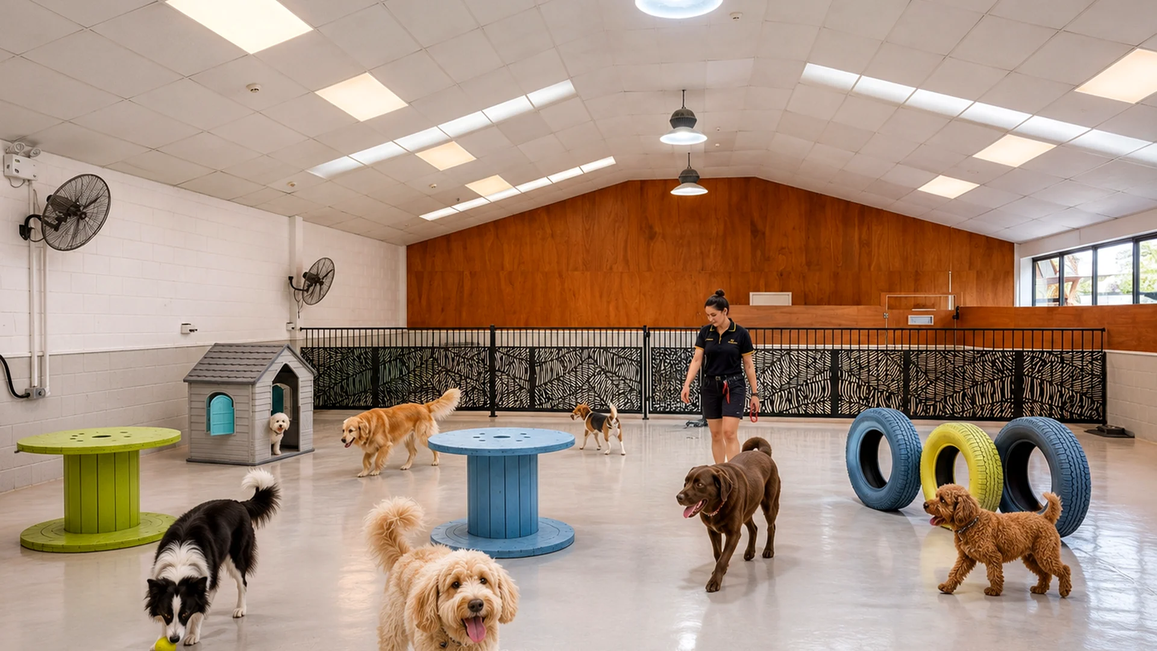
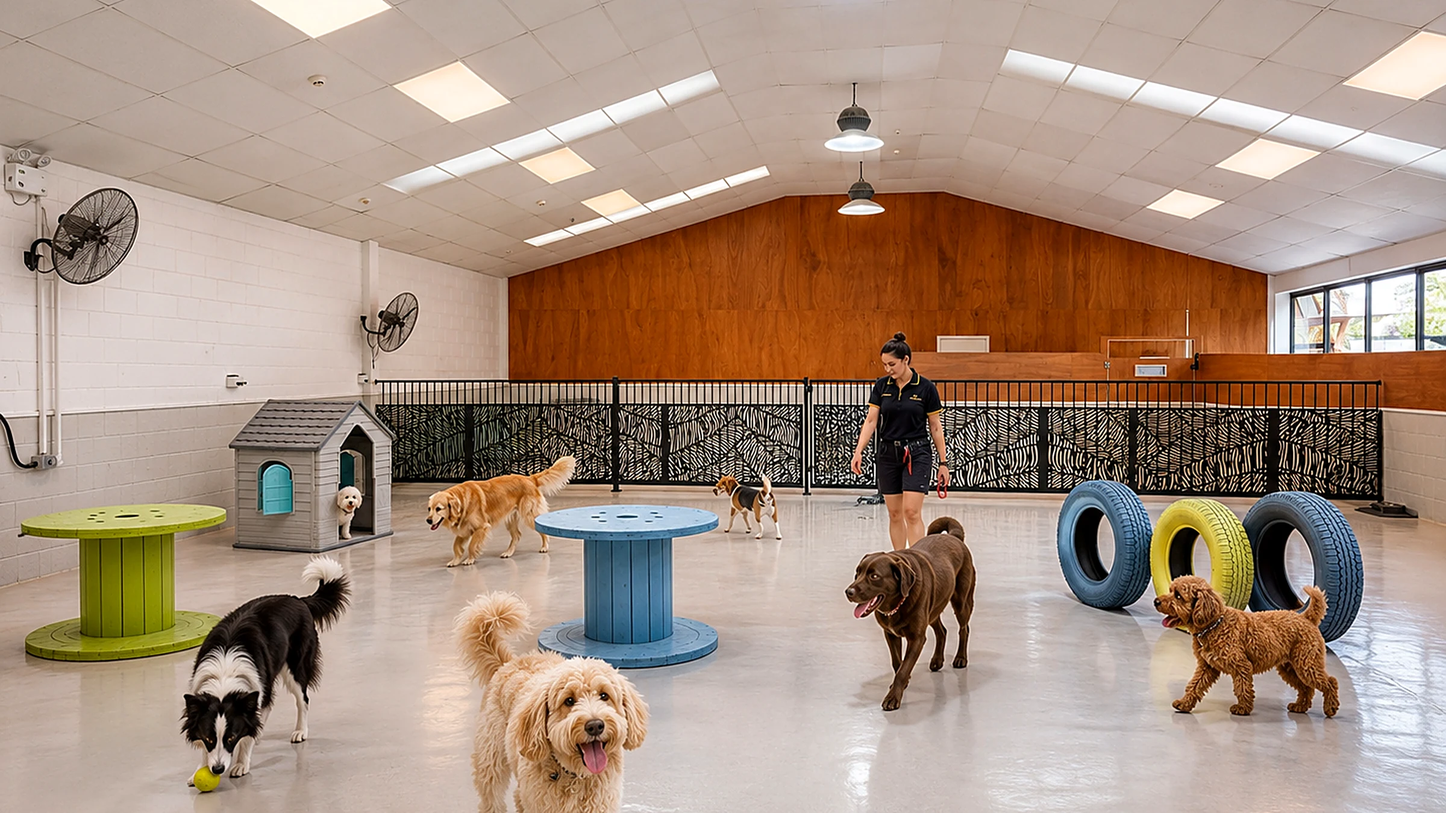
Story pacing restored with shorter gaps; crisp hero photos without shader effects
Claude-Session: https://claude.ai/code/session_01Tb8kpPiw2Lo2ix564QgufY

diff --git a/assets/site.js b/assets/site.js
@@ -78,15 +78,15 @@ var FS=['precision highp float;varying vec2 v;uniform sampler2D t0,t1;uniform ve
 'float fbm(vec2 p){float a=.5,s=0.;for(int i=0;i<4;i++){s+=a*n(p);p*=2.03;a*=.5;}return s;}',
 'vec2 cov(vec2 uv,vec2 img,float f){float ra=res.x/res.y,ia=img.x/img.y;vec2 sc=ra>ia?vec2(1.,ia/ra):vec2(ra/ia,1.);vec2 c=(uv-.5)*sc+.5;c.y+=(f-.5)*(1.-sc.y);return c;}',
 'vec3 samp(sampler2D t,vec2 uv,vec2 sz,float f,float sh){vec2 c=cov(uv,sz,f);return vec3(texture2D(t,c+vec2(sh,0.)).r,texture2D(t,c).g,texture2D(t,c-vec2(sh,0.)).b);}',
-'void main(){vec2 uv=v;float asp=res.x/res.y;uv+=(mouse-.5)*-.014;',
+'void main(){vec2 uv=v;float asp=res.x/res.y;',
 ' float nz=fbm(uv*vec2(asp,1.)*2.4+time*.03);float th=nz*.7+(1.-uv.y)*.3;float m=smoothstep(th-.1,th+.1,pr*1.2-.1);',
-' float br=sin(time*.1)*.012;float z0=.94+br-pr*.08;float z1=1.1-pr*.1;',
+' float z0=1.-pr*.06;float z1=1.06-pr*.06;',
 ' vec2 u0=(uv-.5)*z0+.5+vec2(0.,pr*.05);vec2 u1=(uv-.5)*(1./z1)+.5-vec2(0.,(1.-pr)*.05);',
-' float w=(nz-.5)*.07;u0+=w*m;u1-=w*(1.-m);float sh=vel*.004;',
+' float w=(nz-.5)*.07;u0+=w*m;u1-=w*(1.-m);float sh=0.;',
 ' vec3 a=samp(t0,u0,s0,fy.x,sh),b=samp(t1,u1,s1,fy.y,sh);vec3 c=mix(a,b,m);',
 ' float band=smoothstep(0.,.5,m)*smoothstep(1.,.5,m);c+=vec3(1.,.52,.1)*band*.5;',
-' float vg=smoothstep(1.25,.25,length((v-.5)*vec2(1.1,1.)));c*=mix(.86,1.,vg);c*=vec3(1.02,1.,.98);',
-' c+=(h(v*res+time)-.5)*.03;gl_FragColor=vec4(c,1.);}'].join('\n');
+' float vg=smoothstep(1.25,.25,length((v-.5)*vec2(1.1,1.)));c*=mix(.92,1.,vg);',
+' gl_FragColor=vec4(c,1.);}'].join('\n');
 function initGL(){
   if(!canvas)return false;
   try{gl=canvas.getContext('webgl',{antialias:false,alpha:false})}catch(e){gl=null}
@@ -102,7 +102,7 @@ function initGL(){
 function mkTex(img,i){var t=gl.createTexture();gl.bindTexture(gl.TEXTURE_2D,t);gl.pixelStorei(gl.UNPACK_FLIP_Y_WEBGL,true);gl.texImage2D(gl.TEXTURE_2D,0,gl.RGBA,gl.RGBA,gl.UNSIGNED_BYTE,img);
   gl.texParameteri(gl.TEXTURE_2D,gl.TEXTURE_MIN_FILTER,gl.LINEAR);gl.texParameteri(gl.TEXTURE_2D,gl.TEXTURE_MAG_FILTER,gl.LINEAR);gl.texParameteri(gl.TEXTURE_2D,gl.TEXTURE_WRAP_S,gl.CLAMP_TO_EDGE);gl.texParameteri(gl.TEXTURE_2D,gl.TEXTURE_WRAP_T,gl.CLAMP_TO_EDGE);tex[i]=t;tsize[i]=[img.naturalWidth,img.naturalHeight]}
 var glok=hero?initGL():false;
-function sizeGL(){if(!glok)return;var dpr=Math.min(window.devicePixelRatio||1,1.6),r=canvas.getBoundingClientRect(),w=Math.max(2,Math.round(r.width*dpr)),hh=Math.max(2,Math.round(r.height*dpr));if(canvas.width!==w||canvas.height!==hh){canvas.width=w;canvas.height=hh;gl.viewport(0,0,w,hh)}}
+function sizeGL(){if(!glok)return;var dpr=Math.min(window.devicePixelRatio||1,2),r=canvas.getBoundingClientRect(),w=Math.max(2,Math.round(r.width*dpr)),hh=Math.max(2,Math.round(r.height*dpr));if(canvas.width!==w||canvas.height!==hh){canvas.width=w;canvas.height=hh;gl.viewport(0,0,w,hh)}}
 function setSlide(i,force){if(!ready)return;if(i===curSlide&&!force)return;curSlide=i;slides.forEach(function(s,k){s.classList.toggle('on',k===i)});if(i>=0){dots.forEach(function(d,k){d.classList.toggle('on',k===i)});hnum.textContent='0'+(i+1)}}
 
 /* loader (home) */
@@ -154,25 +154,25 @@ function frame(now){requestAnimationFrame(frame);
   if(fine&&cur)cur.style.transform='translate3d('+mouse.px+'px,'+mouse.py+'px,0)';
 
   if(hero&&M.hero&&S.sy<M.hero.t+M.hero.h){
-    var hp=clamp((S.sy-M.hero.t)/(M.hero.h-vh)),P=seg(.4,.56,hp)+seg(.7,.86,hp),idx=P>=1?1:0,f=P-idx;if(P>=2){idx=1;f=1}
+    var hp=clamp((S.sy-M.hero.t)/(M.hero.h-vh)),P=seg(.46,.6,hp)+seg(.72,.86,hp),idx=P>=1?1:0,f=P-idx;if(P>=2){idx=1;f=1}
     var si=P<.3?0:(P>.72&&P<1.3)?1:(P>1.72?2:-1);if(hp>.965)si=-1;setSlide(si);
     if(hill){var hk=clamp(P),he=hk*hk*(3-2*hk),hs=hstage.getBoundingClientRect(),sr=hsun.getBoundingClientRect(),cx=sr.left+sr.width/2-hs.left,cy=sr.top+sr.height/2-hs.top,
       mr=Math.sqrt(Math.pow(Math.max(cx,hs.width-cx),2)+Math.pow(Math.max(cy,hs.height-cy),2))+4;
       hill.style.setProperty('--hole',(he*mr).toFixed(1)+'px');hill.style.visibility=hk>=1?'hidden':'';hstory.style.visibility=hk>=1?'hidden':'';hstage.classList.toggle('onphoto',hk>.45);
       hstory.style.opacity=(1-seg(.15,.7,hk)).toFixed(3);
-      var st=seg(0,.37,hp),Sp=htrack._S||(htrack._S=parseFloat(getComputedStyle(htrack).getPropertyValue('--S'))*vw/100),Hh=hstory._H||(hstory._H=hstory.querySelector('.hp').getBoundingClientRect().height);
+      var st=seg(0,.44,hp),Sp=htrack._S||(htrack._S=parseFloat(getComputedStyle(htrack).getPropertyValue('--S'))*vw/100),Hh=hstory._H||(hstory._H=hstory.querySelector('.hp').getBoundingClientRect().height);
       if(!hst.E){hst.E=$('#hE');hst.M=$('#hM');hst.T=$('#hT');hst.C=$('#hC');hst.ball=$('#hball')}
       var kf=function(K,s){if(s<=K[0][0])return K[0][1];for(var i=0;i<K.length-1;i++){if(s<=K[i+1][0]){var u=(s-K[i][0])/(K[i+1][0]-K[i][0]);u=u*u*(3-2*u);return K[i][1]+(K[i+1][1]-K[i][1])*u}}return K[K.length-1][1]};
-      var dX=kf([[0,0],[.11,.72],[.15,.72],[.3,3.4],[.345,3.4],[.5,4.6],[.545,4.6],[.63,6],[.72,7.2],[.86,8.25],[.94,8.6]],st),cX=8.6,
-          eX=.75+.15*dX,mX=dX<3.4?2.69+.15*dX:dX<=4.6?dX-.2:4.4+.15*(dX-4.6),tX=5.35+.15*dX,
-          cam=dX+hstory._lead,camE=seg(.84,.95,st);cam=cam+(cX-cam)*camE*camE*(3-2*camE);
+      var dX=kf([[0,0],[.087,.72],[.141,.72],[.322,2.22],[.383,2.22],[.503,3.22],[.564,3.22],[.671,4.12],[.765,5.32],[.866,6.12],[.946,6.5]],st),cX=6.5,
+          eX=.75+.15*dX,mX=dX<2.22?1.687+.15*dX:dX<=3.22?dX-.2:3.02+.15*(dX-3.22),tX=3.752+.15*dX,
+          cam=dX+hstory._lead,camE=seg(.9,.99,st);cam=cam+(cX-cam)*camE*camE*(3-2*camE);
       var cyc=.56*Hh/Sp,wf=((Math.floor(dX/cyc*8)%8)+8)%8,rnf=9+((Math.floor(dX/(cyc*1.5)*6)%6)+6)%6,fr,ps,
           sitf=function(a,b){var q=seg(a,b,st);return q<.3?22+Math.min(5,Math.floor(q/.3*6)):q<.72?27:28+Math.min(5,Math.floor((q-.72)/.28*6))};
-      if(st<.11){ps='walk';fr=wf}else if(st<.15){ps='sniff';fr=16+Math.min(5,Math.floor(seg(.11,.15,st)*6))}else if(st<.298){ps='walk';fr=wf}
-      else if(st<.347){ps='sit';fr=sitf(.298,.347)}else if(st<.498){ps='walk';fr=wf}else if(st<.547){ps='sit';fr=sitf(.498,.547)}
-      else if(st<.63){ps='walk';fr=wf}else if(st<.72){ps='run';fr=rnf}else if(st<.86){ps='walk';fr=wf}
-      else if(st<.94){ps='jump';var jq0=seg(.86,.94,st);fr=jq0<.3?35+Math.floor(jq0/.3*2):jq0<.6?37:38}else{ps='sleep';fr=38}
-      var lap=-Hh*.37,jq=seg(.884,.94,st),dY=ps==='jump'?lap*jq-Math.sin(jq*Math.PI)*Hh*.2:ps==='sleep'?lap:0,rot=0,sitting=ps==='sit'&&fr>=25&&fr<=29;
+      if(st<.087){ps='walk';fr=wf}else if(st<.141){ps='sniff';fr=16+Math.min(5,Math.floor(seg(.087,.141,st)*6))}else if(st<.32){ps='walk';fr=wf}
+      else if(st<.385){ps='sit';fr=sitf(.32,.385)}else if(st<.501){ps='walk';fr=wf}else if(st<.566){ps='sit';fr=sitf(.501,.566)}
+      else if(st<.671){ps='walk';fr=wf}else if(st<.765){ps='run';fr=rnf}else if(st<.866){ps='walk';fr=wf}
+      else if(st<.946){ps='jump';var jq0=seg(.866,.946,st);fr=jq0<.3?35+Math.floor(jq0/.3*2):jq0<.6?37:38}else{ps='sleep';fr=38}
+      var lap=-Hh*.37,jq=seg(.89,.946,st),dY=ps==='jump'?lap*jq-Math.sin(jq*Math.PI)*Hh*.2:ps==='sleep'?lap:0,rot=0,sitting=ps==='sit'&&fr>=25&&fr<=29;
       htrack.style.transform='translate3d('+(-cam*Sp).toFixed(1)+'px,0,0)';
       if(fr!==hst.fr){hst.fr=fr;hspr.style.backgroundPosition=((fr%8)/7*100).toFixed(2)+'% '+(Math.floor(fr/8)/4*100).toFixed(2)+'%'}
       if(ps!==hpose){hpose=ps;hspr.style.opacity=ps==='sleep'?0:1;hslp.style.opacity=ps==='sleep'?1:0}
@@ -182,20 +182,20 @@ function frame(now){requestAnimationFrame(frame);
       var mxo=sitting?Hh*.2:Hh*.31,myo=(sitting?-Hh*.45:ps==='run'?-Hh*.37:-Hh*.385)+dY;
       /* bone */
       var bx,by,br=0,bo=1,bg=-Hh*.025;
-      if(st<.04){bo=0;bx=0;by=0}
-      else if(st<.08){var bq=seg(.04,.08,st),b0=(.75+.15*kf([[0,0],[.11,.72]],.04))*Sp+Hh*.2,b1=.72*Sp+mxo;bx=b0+(b1-b0)*bq;by=-Hh*.66*(1-bq*bq)+bg;br=bq*200}
-      else if(st<.14){bx=.72*Sp+mxo;by=bg;br=200}
-      else if(st<.31){bx=dX*Sp+mxo;by=myo;br=8}
-      else{var bd=seg(.31,.33,st);bx=3.4*Sp+mxo;by=-Hh*.5+(bg+Hh*.5)*bd;br=8+bd*30}
+      if(st<.035){bo=0;bx=0;by=0}
+      else if(st<.07){var bq=seg(.035,.07,st),b0=(.75+.15*kf([[0,0],[.087,.72]],.035))*Sp+Hh*.2,b1=.72*Sp+mxo;bx=b0+(b1-b0)*bq;by=-Hh*.66*(1-bq*bq)+bg;br=bq*200}
+      else if(st<.135){bx=.72*Sp+mxo;by=bg;br=200}
+      else if(st<.335){bx=dX*Sp+mxo;by=myo;br=8}
+      else{var bd=seg(.335,.352,st);bx=2.22*Sp+mxo;by=-Hh*.5+(bg+Hh*.5)*bd;br=8+bd*30}
       hbone.style.opacity=bo;hbone.style.transform='translate3d('+bx.toFixed(1)+'px,'+by.toFixed(1)+'px,0) rotate('+br.toFixed(0)+'deg)';
       /* leash: clips on while the dog sits, stays for the walk, unclips and swings back to the hand */
-      var lon=seg(.315,.335,st),loff=seg(.51,.535,st),lo=lon*(1-seg(.535,.55,st));hleash.style.opacity=lo.toFixed(2);hclip.style.opacity=lo.toFixed(2);
+      var lon=seg(.345,.365,st),loff=seg(.515,.54,st),lo=lon*(1-seg(.54,.556,st));hleash.style.opacity=lo.toFixed(2);hclip.style.opacity=lo.toFixed(2);
       if(lo>0){var hx=mX*Sp+Hh*.2,hy=-Hh*.5,nx0=dX*Sp+(sitting?Hh*.09:Hh*.17),ny0=(sitting?-Hh*.34:-Hh*.3)+dY,nx=nx0+(hx+Hh*.02-nx0)*loff,ny=ny0+(hy+Hh*.3-ny0)*loff;
         hleash.setAttribute('d','M'+hx.toFixed(1)+' '+hy.toFixed(1)+' Q'+((hx+nx)/2).toFixed(1)+' '+(Math.max(hy,ny)+Hh*.15*(1-loff)).toFixed(1)+' '+nx.toFixed(1)+' '+ny.toFixed(1));hclip.setAttribute('cx',nx.toFixed(1));hclip.setAttribute('cy',ny.toFixed(1))}
       /* ball */
-      var tq=seg(.63,.72,st),thx=tX*Sp+Hh*.36,thy=-Hh*.74,bxx,byy;
-      if(st<.63){bxx=thx;byy=thy}else if(st<.72){var t0x=(5.35+.15*6)*Sp+Hh*.36,cxb=7.2*Sp+mxo;bxx=t0x+(cxb-t0x)*tq;byy=thy+(-Hh*.36-thy)*tq-Math.sin(tq*Math.PI)*Hh*.55}else{bxx=dX*Sp+mxo;byy=myo}
-      hst.ball.style.opacity=st>=.9?0:1;hst.ball.style.transform='translate3d('+bxx.toFixed(1)+'px,'+byy.toFixed(1)+'px,0)';}
+      var tq=seg(.671,.765,st),thx=tX*Sp+Hh*.36,thy=-Hh*.74,bxx,byy;
+      if(st<.671){bxx=thx;byy=thy}else if(st<.765){var t0x=(3.752+.15*4.12)*Sp+Hh*.36,cxb=5.32*Sp+mxo;bxx=t0x+(cxb-t0x)*tq;byy=thy+(-Hh*.36-thy)*tq-Math.sin(tq*Math.PI)*Hh*.55}else{bxx=dX*Sp+mxo;byy=myo}
+      hst.ball.style.opacity=st>=.93?0:1;hst.ball.style.transform='translate3d('+bxx.toFixed(1)+'px,'+byy.toFixed(1)+'px,0)';}
     var k=seg(.9,1,hp);hframe.style.transform='scale('+(1-k*.08).toFixed(4)+')';hframe.style.borderRadius=(k*34).toFixed(1)+'px';
     if(glok&&tex[0]&&started){var ia=tex[idx]?idx:0,ib=tex[idx+1]?idx+1:ia;
       gl.activeTexture(gl.TEXTURE0);gl.bindTexture(gl.TEXTURE_2D,tex[ia]);gl.activeTexture(gl.TEXTURE1);gl.bindTexture(gl.TEXTURE_2D,tex[ib]);

diff --git a/assets/site.css b/assets/site.css
@@ -79,7 +79,7 @@ img{display:block;max-width:100%}a{color:inherit;text-decoration:none}button{fon
 .runner .dg img.on{opacity:1}.runner .dg img[data-p="sleep"]{height:28px}.runner .dg img[data-p="sit"]{height:48px}
 
 /* home hero */
-.hero{position:relative;height:400vh}
+.hero{position:relative;height:440vh}
 .hstage{position:sticky;top:0;height:100svh;overflow:hidden;background:var(--ink);--H:31vh;--gy:49vh;--cx:50%;--cy:calc(var(--gy) - var(--H)*.56);--r:calc(var(--H)*.5)}
 .hframe{position:absolute;inset:0;overflow:hidden;will-change:transform;transform-origin:50% 60%}
 #gl,.hfall{position:absolute;inset:0;width:100%;height:100%}.hfall{background-size:cover;background-position:center}
@@ -482,7 +482,7 @@ html[data-theme=light]{--ink:#fdf5e8;--coal:#f7e9d2;--char:#f0ddc0;--cream:#2a16
 .hgrass{position:absolute;left:calc(var(--S)*-2vw);top:3px;width:calc(var(--S)*14vw);height:5px;background:repeating-linear-gradient(90deg,rgba(255,214,150,.55) 0 16px,transparent 16px 64px,rgba(255,214,150,.3) 64px 70px,transparent 70px 150px)}
 [data-theme=light] .hgrass{background:repeating-linear-gradient(90deg,rgba(90,45,10,.45) 0 16px,transparent 16px 64px,rgba(90,45,10,.25) 64px 70px,transparent 70px 150px)}
 .hdog img[data-p=walk]{scale:-1 1}
-@media (max-width:900px){.htrack{--S:70}}
+@media (max-width:900px){.htrack{--S:76}}
 
 .hdog{z-index:2}.hleash{z-index:3;color:#ffcf75}.hbone,.hball{z-index:4}
 .hgrass{width:calc(var(--S)*17vw)}
@@ -498,7 +498,7 @@ body{background:radial-gradient(80rem 50rem at 110% -10%,rgba(255,184,28,.10),tr
 .btn.line{background:none;box-shadow:none;color:var(--cream)}.btn.line i{background:var(--amber)}
 .btn.dark{background:#0a0a0a;color:#fbf1e2}.btn.dark i{background:var(--amber)}
 .cta .btn.line{color:#0a0a0a}.cta .btn.line i{background:#0a0a0a}
-.htrack{--S:42}
+.htrack{--S:50}
 .hill{background:radial-gradient(70% 80% at var(--cx) var(--cy),#2a2103 0%,#141414 42%,#0a0a0a 80%)}
 .hsun{background:radial-gradient(circle at 34% 28%,#2c2c2c 0%,#171717 60%,#0e0e0e 100%);box-shadow:0 0 0 2px #ffb81c,0 0 110px 18px rgba(255,184,28,.34)}
 .hring{border-color:rgba(255,184,28,.4);border-left-color:transparent;border-bottom-color:transparent}
@@ -525,3 +525,5 @@ body{background:radial-gradient(80rem 50rem at 110% -10%,rgba(255,184,28,.10),tr
 .runner .dg img[data-p="sleep"]{height:30px}
 .hstage.onphoto .hslide .it{filter:drop-shadow(0 2px 10px rgba(0,0,0,.65))}
 .hstage.onphoto .hslide h2{filter:drop-shadow(0 2px 14px rgba(0,0,0,.45))}
+.hstage.onphoto .hslide .it,[data-theme=light] .hstage.onphoto .hslide .it{background:none;-webkit-background-clip:border-box;background-clip:border-box;color:#ffb81c;filter:none;text-shadow:0 2px 4px rgba(0,0,0,.55),0 4px 26px rgba(0,0,0,.6)}
+.hstage.onphoto .hslide h2{filter:none;text-shadow:0 2px 4px rgba(0,0,0,.45),0 4px 26px rgba(0,0,0,.55)}
